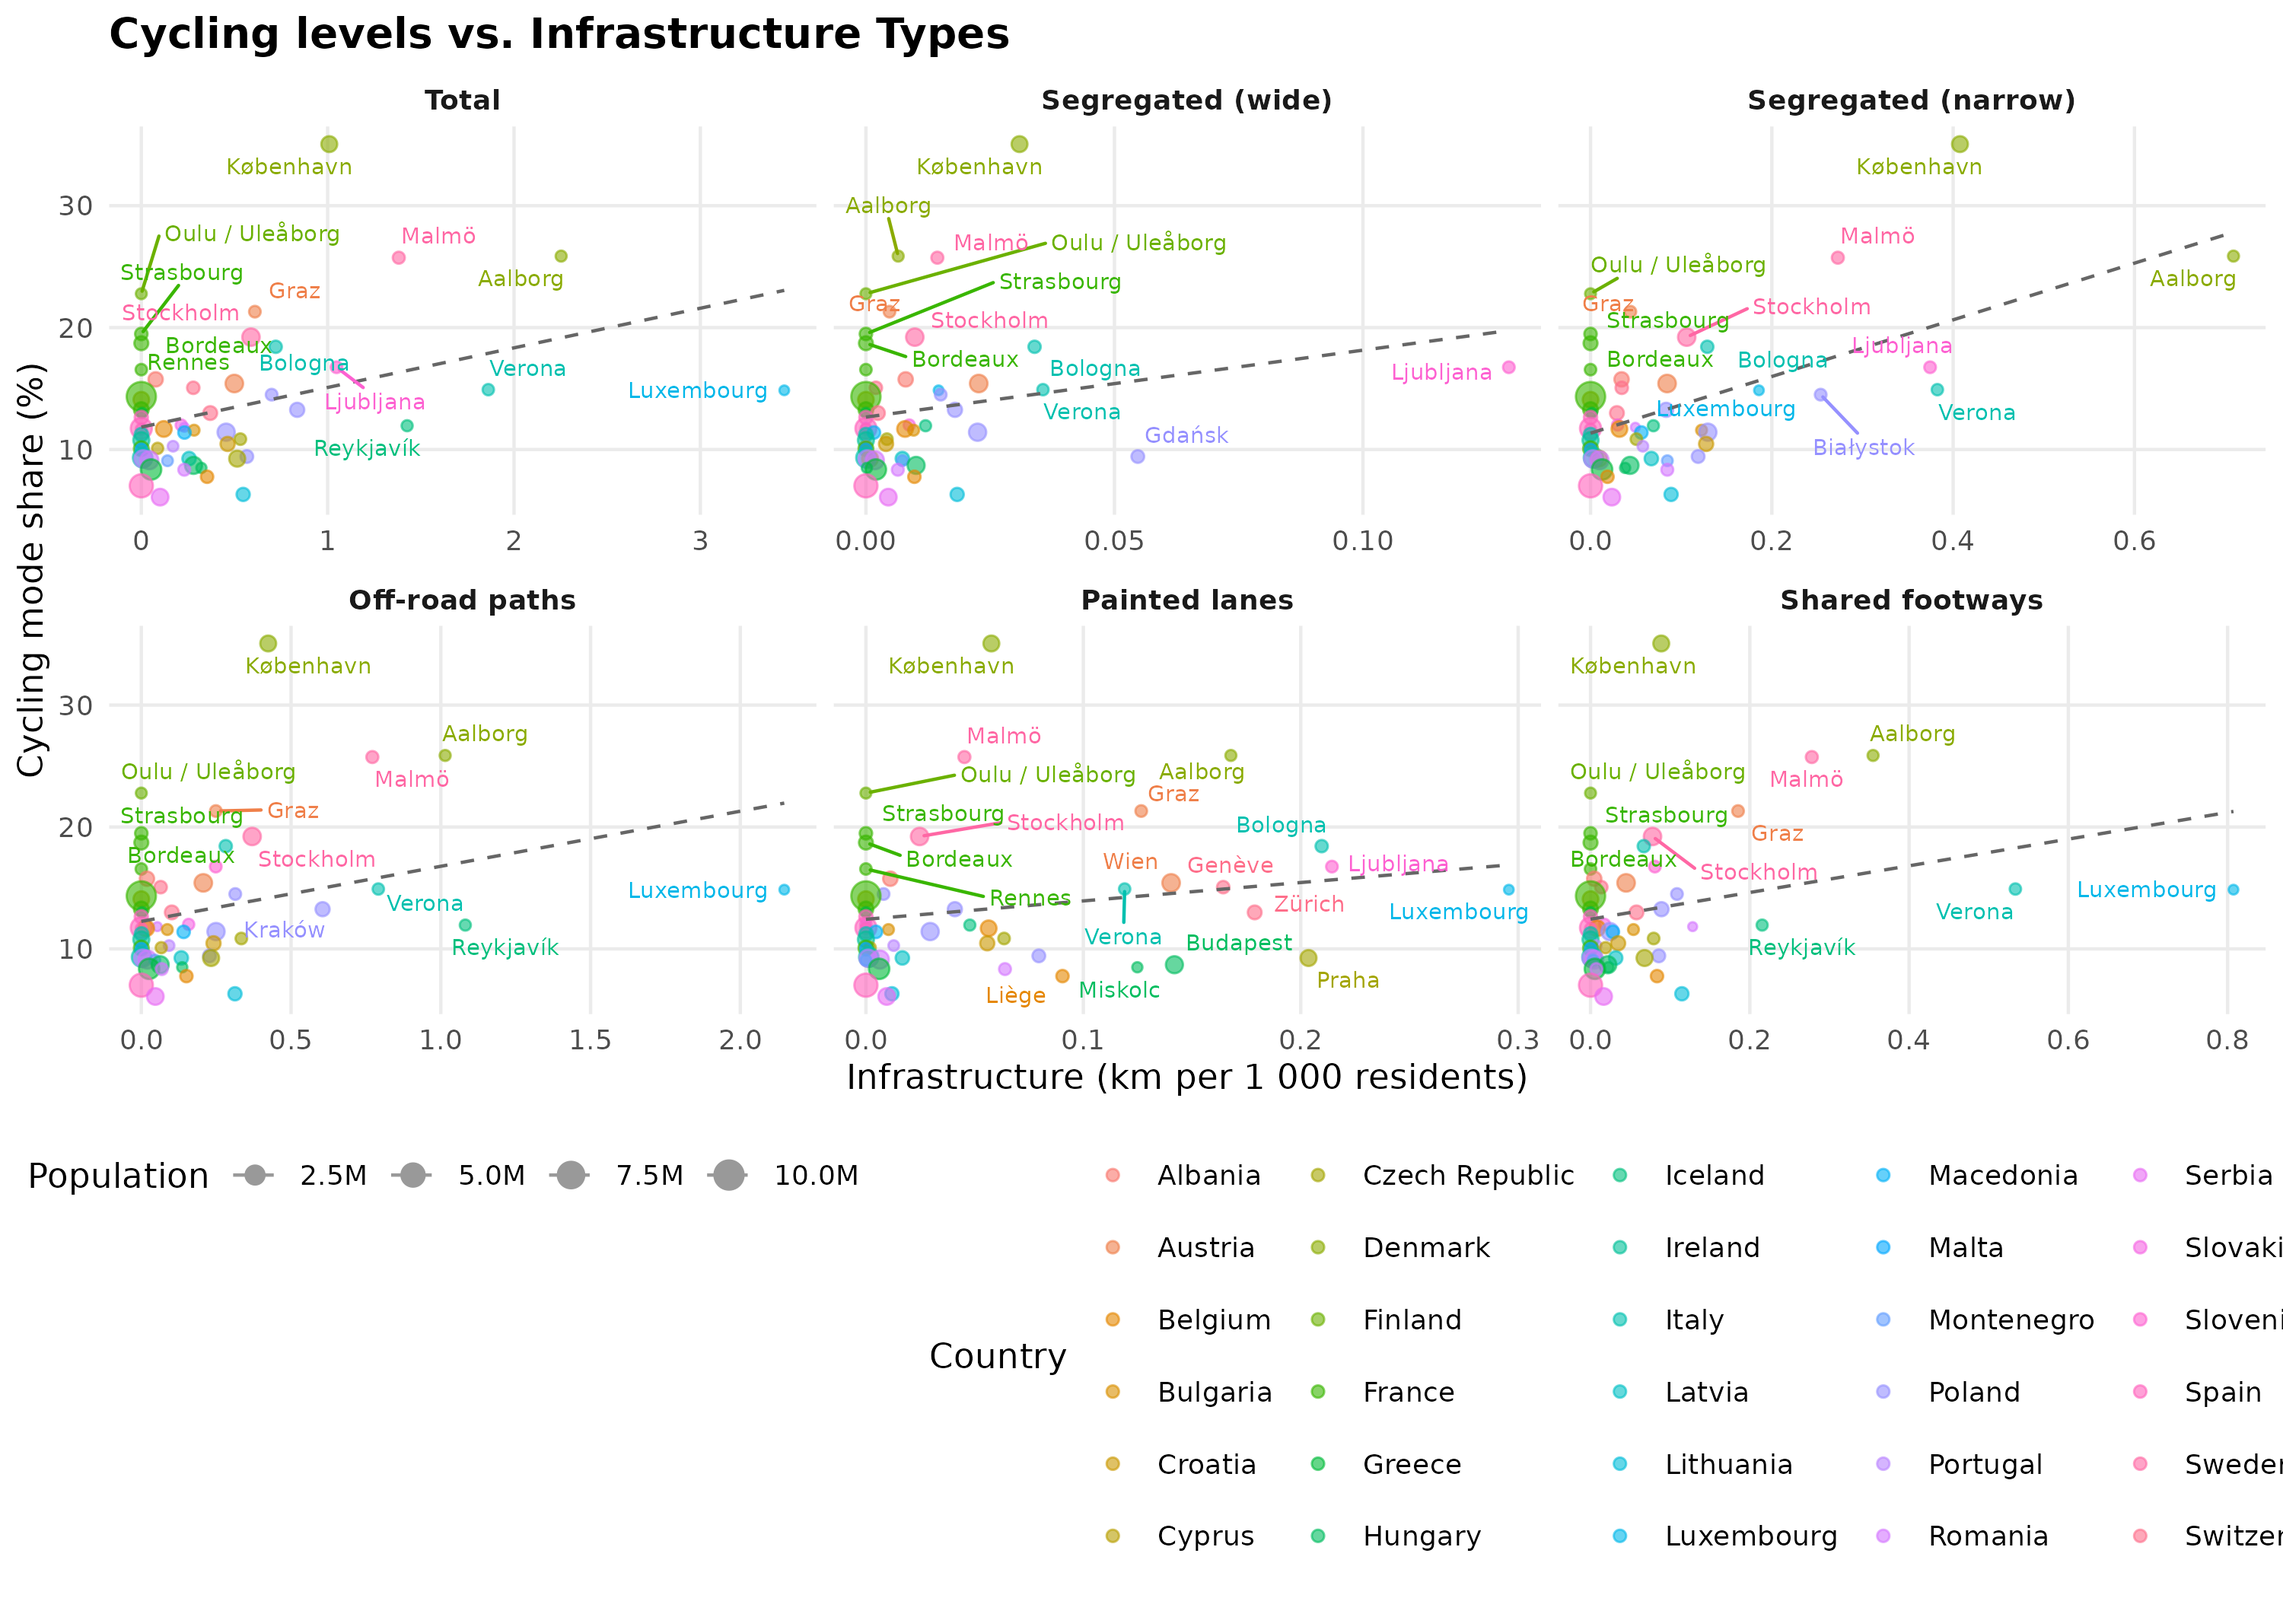
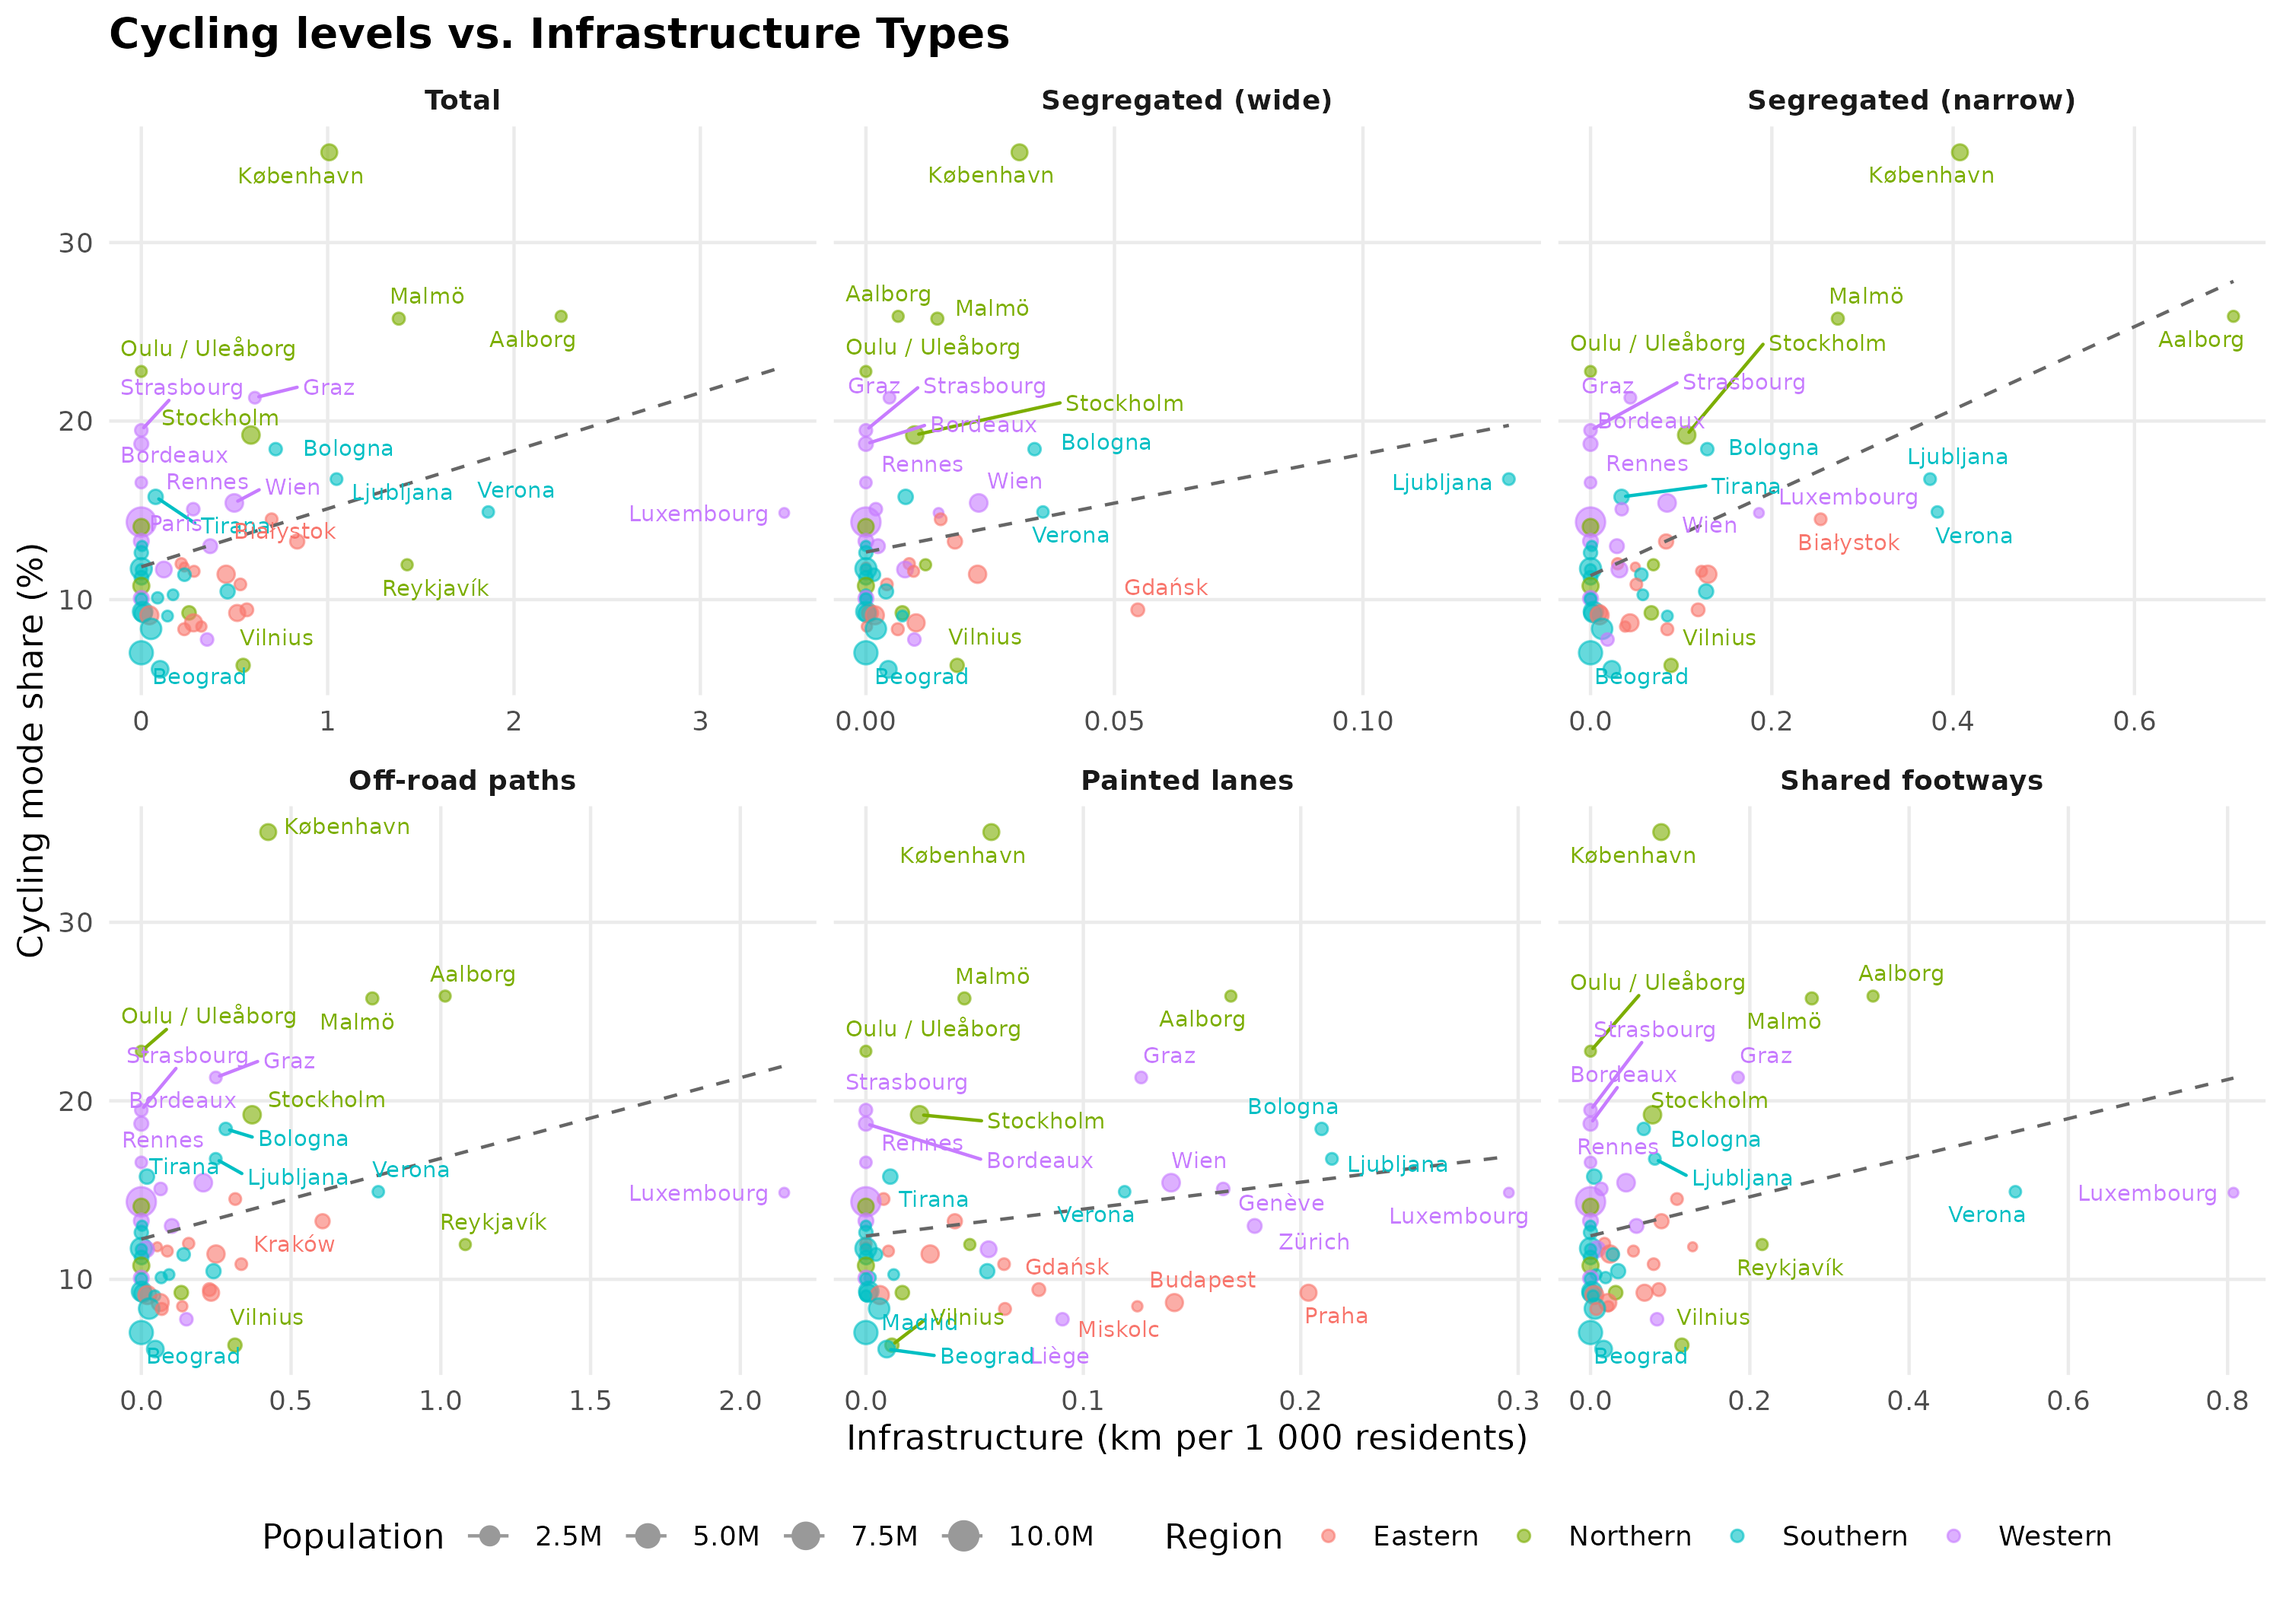
Update: regional grouping, inline R2 values, and 2dp rounding

diff --git a/01-cycling-infra-vs-usage.md b/01-cycling-infra-vs-usage.md
@@ -98,6 +98,13 @@ if (inherits(test_result, "try-error")) {
     5 Painted lanes           0.041       56
     6 Shared footways         0.081       56
 
+The analysis reveals varying degrees of association between
+infrastructure types and cycling levels. Notably, narrow segregated
+tracks show the strongest correlation ($R^2 =$ 0.319), significantly
+higher than total infrastructure ($R^2 =$ 0.147). Off-road paths
+($R^2 =$ 0.094) and painted lanes ($R^2 =$ 0.041) show weaker
+associations.
+
 ## Next steps
 
 - Check city boundaries and cases with missing or zero cycling
